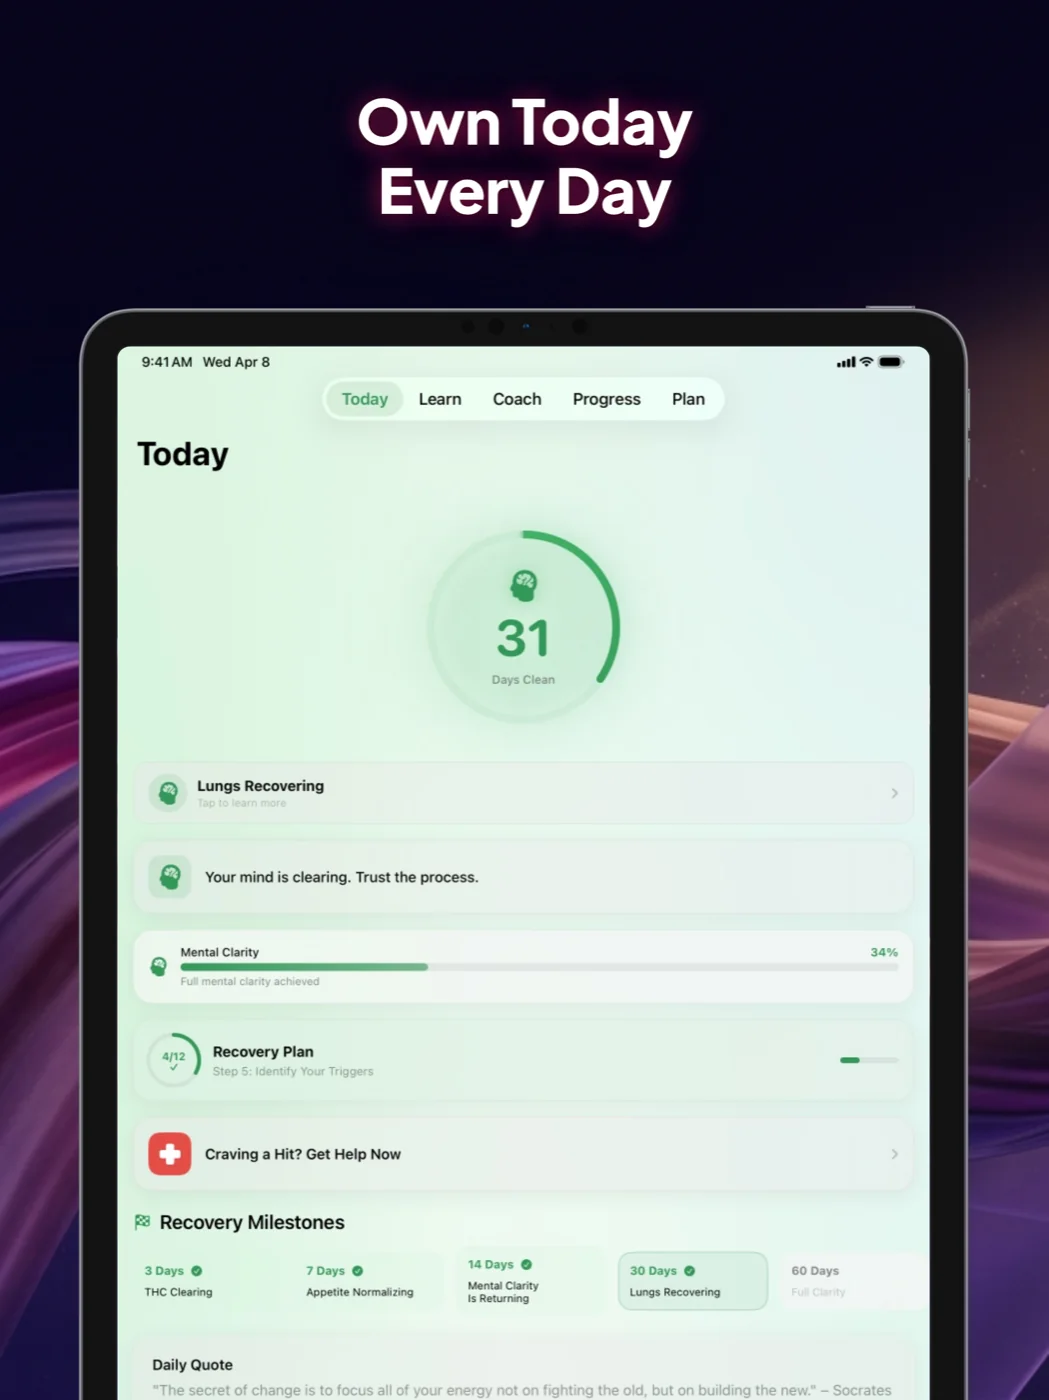
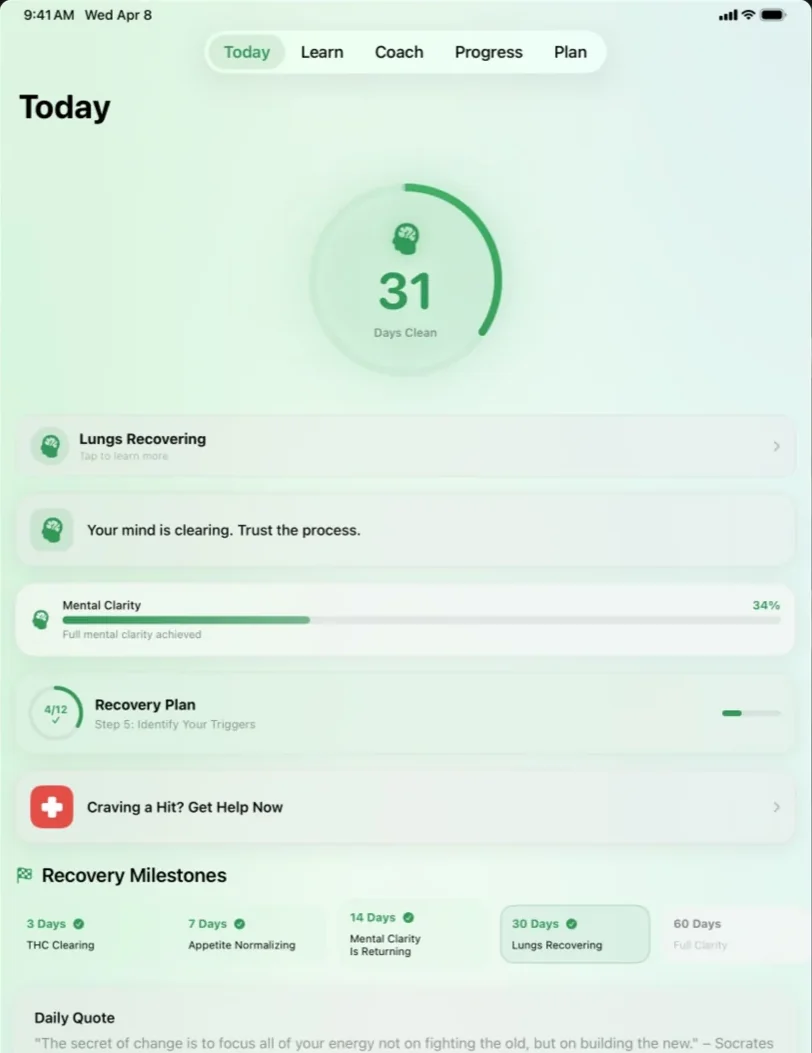
Walkthrough: crop ASC marketing frames to bare app screens, device-bezel plates, fix sticky column height

diff --git a/index.html b/index.html
@@ -193,7 +193,7 @@ section{padding:clamp(72px,10vw,130px) 0;position:relative}
 
 /* ── app walkthrough: sticky plate ──────────────────────────────── */
 .walk{display:grid;gap:clamp(28px,4vw,64px)}
-@media(min-width:980px){.walk{grid-template-columns:1fr 1fr;align-items:start}}
+@media(min-width:980px){.walk{grid-template-columns:1fr 1fr;align-items:stretch}}
 .walk-plate-col{display:none}
 @media(min-width:980px){
   .walk-plate-col{display:block}
@@ -203,13 +203,15 @@ section{padding:clamp(72px,10vw,130px) 0;position:relative}
 .walk-slide{position:absolute;inset:0;opacity:0;transform:scale(.97);transition:opacity var(--t-med) var(--ease),transform var(--t-med) var(--ease)}
 .walk-slide.on{opacity:1;transform:none;position:relative}
 .plate{
-  border-radius:26px;overflow:hidden;border:1px solid var(--line);
-  box-shadow:0 30px 80px rgba(0,0,0,.5), 0 0 0 1px rgba(232,180,90,.06);
+  border-radius:30px;overflow:hidden;padding:10px;background:#16110c;
+  border:1px solid var(--line);
+  box-shadow:0 30px 80px rgba(0,0,0,.55), 0 0 60px rgba(232,180,90,.08), 0 0 0 1px rgba(232,180,90,.06);
   position:relative;
 }
+.plate img{display:block;width:100%;height:auto;border-radius:20px}
 .plate::after{
   content:'';position:absolute;inset:0;pointer-events:none;
-  background:linear-gradient(115deg,transparent 40%,rgba(244,223,180,.07) 50%,transparent 60%);
+  background:linear-gradient(115deg,transparent 40%,rgba(244,223,180,.06) 50%,transparent 60%);
 }
 .walk-step{min-height:58vh;display:flex;flex-direction:column;justify-content:center;padding:20px 0;opacity:.4;transition:opacity var(--t-med) var(--ease)}
 .walk-step.on{opacity:1}
@@ -362,7 +364,7 @@ footer .cols{display:flex;gap:26px;flex-wrap:wrap}
           <p>One screen holds the day: your streak, the next lesson, the check-in,
              and what to do when a craving lands. No dashboard maze — recovery is
              hard enough.</p>
-          <div class="m-plate plate"><img src="assets/shots/01-today-dashboard.webp" alt="ThriveRecovery Today screen with streak, daily plan, and check-in" loading="lazy" width="1400" height="1867"></div>
+          <div class="m-plate plate"><img src="assets/shots/01-today-dashboard.webp" alt="ThriveRecovery Today screen with streak, daily plan, and check-in" loading="lazy" width="812" height="1053"></div>
         </div>
         <div class="walk-step" data-shot="02-ai-coach-chat">
           <div class="n">02 — The Coach</div>
@@ -370,7 +372,7 @@ footer .cols{display:flex;gap:26px;flex-wrap:wrap}
           <p>The hardest moments don't schedule themselves. The coach knows your
              program, your dependency, and your history — and it never sleeps,
              judges, or gets tired of you.</p>
-          <div class="m-plate plate"><img src="assets/shots/02-ai-coach-chat.webp" alt="AI recovery coach chat conversation" loading="lazy" width="1400" height="1867"></div>
+          <div class="m-plate plate"><img src="assets/shots/02-ai-coach-chat.webp" alt="AI recovery coach chat conversation" loading="lazy" width="812" height="1053"></div>
         </div>
         <div class="walk-step" data-shot="03-learn-lessons">
           <div class="n">03 — Learn</div>
@@ -378,31 +380,31 @@ footer .cols{display:flex;gap:26px;flex-wrap:wrap}
           <p>Short daily lessons on what your brain is doing — dopamine, triggers,
              the actual mechanics of craving. You can't out-discipline a system
              you don't understand.</p>
-          <div class="m-plate plate"><img src="assets/shots/03-learn-lessons.webp" alt="Recovery lessons library" loading="lazy" width="1400" height="1867"></div>
+          <div class="m-plate plate"><img src="assets/shots/03-learn-lessons.webp" alt="Recovery lessons library" loading="lazy" width="812" height="1053"></div>
         </div>
         <div class="walk-step" data-shot="04-progress-stats">
           <div class="n">04 — Progress</div>
           <h3>See how far you've come.</h3>
           <p>Days, money saved, urges survived, patterns spotted. On the bad days —
              and there will be bad days — this screen is the argument for staying.</p>
-          <div class="m-plate plate"><img src="assets/shots/04-progress-stats.webp" alt="Progress and statistics screen" loading="lazy" width="1400" height="1867"></div>
+          <div class="m-plate plate"><img src="assets/shots/04-progress-stats.webp" alt="Progress and statistics screen" loading="lazy" width="812" height="1053"></div>
         </div>
         <div class="walk-step" data-shot="05-recovery-plan">
           <div class="n">05 — The Plan</div>
           <h3>A roadmap that survives relapse.</h3>
           <p>Relapse is data, not failure. Log it, look at what preceded it, and the
              plan continues from where you are — never back to zero, never shame.</p>
-          <div class="m-plate plate"><img src="assets/shots/05-recovery-plan.webp" alt="Personal recovery plan roadmap" loading="lazy" width="1400" height="1867"></div>
+          <div class="m-plate plate"><img src="assets/shots/05-recovery-plan.webp" alt="Personal recovery plan roadmap" loading="lazy" width="812" height="1053"></div>
         </div>
       </div>
       <div class="walk-plate-col">
         <div class="walk-sticky">
           <div class="walk-stage" id="walkStage">
-            <div class="walk-slide on"><div class="plate"><img src="assets/shots/01-today-dashboard.webp" alt="" width="1400" height="1867" fetchpriority="high"></div></div>
-            <div class="walk-slide"><div class="plate"><img src="assets/shots/02-ai-coach-chat.webp" alt="" loading="lazy" width="1400" height="1867"></div></div>
-            <div class="walk-slide"><div class="plate"><img src="assets/shots/03-learn-lessons.webp" alt="" loading="lazy" width="1400" height="1867"></div></div>
-            <div class="walk-slide"><div class="plate"><img src="assets/shots/04-progress-stats.webp" alt="" loading="lazy" width="1400" height="1867"></div></div>
-            <div class="walk-slide"><div class="plate"><img src="assets/shots/05-recovery-plan.webp" alt="" loading="lazy" width="1400" height="1867"></div></div>
+            <div class="walk-slide on"><div class="plate"><img src="assets/shots/01-today-dashboard.webp" alt="" width="812" height="1053" fetchpriority="high"></div></div>
+            <div class="walk-slide"><div class="plate"><img src="assets/shots/02-ai-coach-chat.webp" alt="" loading="lazy" width="812" height="1053"></div></div>
+            <div class="walk-slide"><div class="plate"><img src="assets/shots/03-learn-lessons.webp" alt="" loading="lazy" width="812" height="1053"></div></div>
+            <div class="walk-slide"><div class="plate"><img src="assets/shots/04-progress-stats.webp" alt="" loading="lazy" width="812" height="1053"></div></div>
+            <div class="walk-slide"><div class="plate"><img src="assets/shots/05-recovery-plan.webp" alt="" loading="lazy" width="812" height="1053"></div></div>
           </div>
         </div>
       </div>
